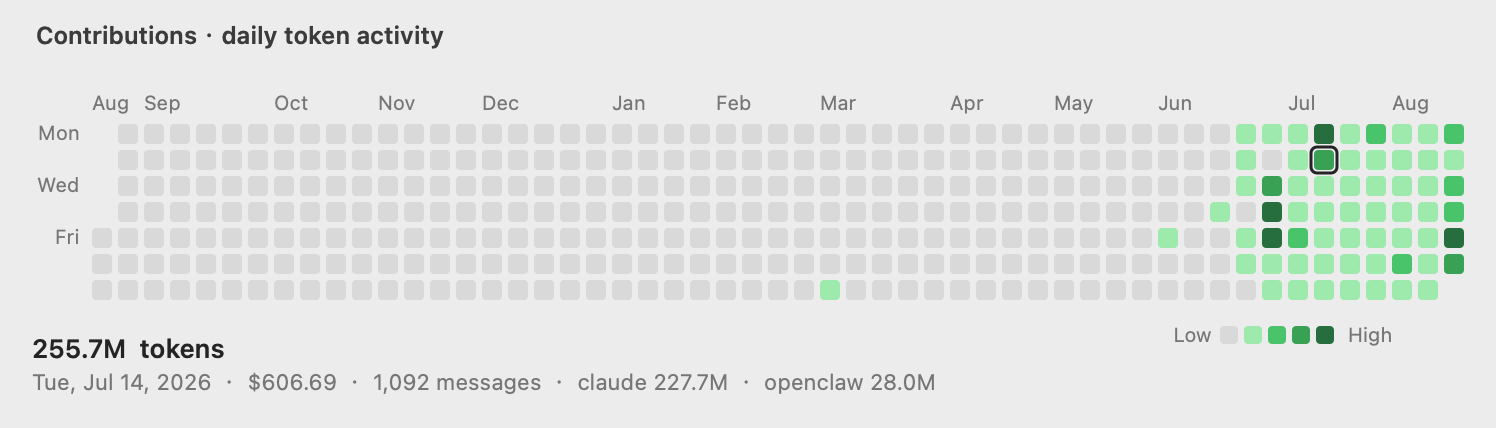
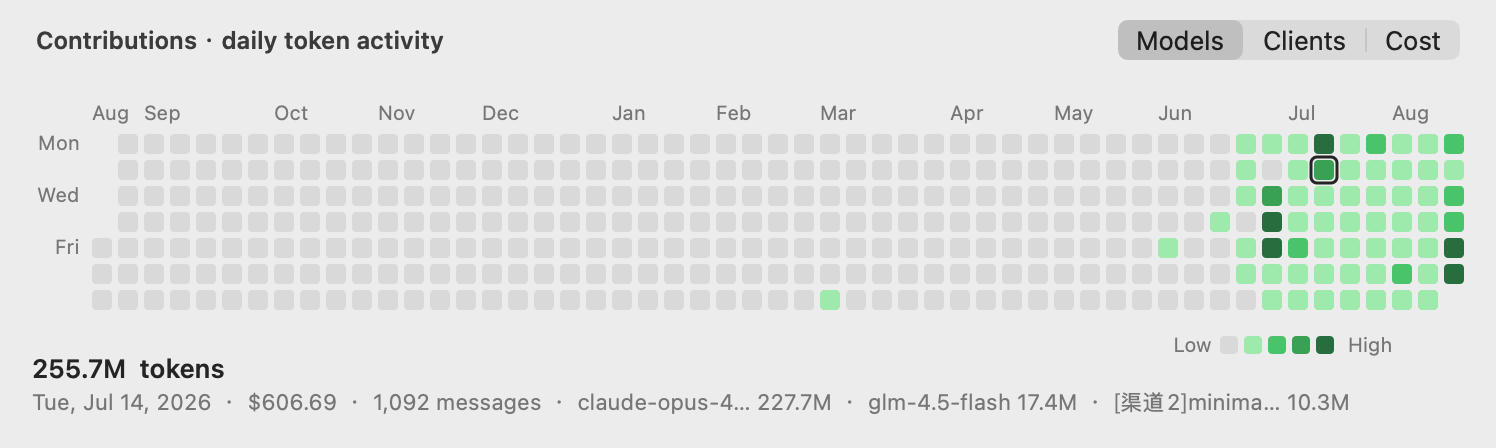
Let the contributions grid switch between models, clients and cost
A toggle in the popover's corner picks what the day readout breaks down by.
Models is the new default — the per-model split is merged from each client's
own model map, which the payload already carried. Cost switches the hero figure
to spend and recolours the grid from the quartiles of the daily cost, since the
API's intensity only tracks tokens: without that, an expensive quiet day and a
cheap busy one looked identical.

Breakdown names clip to 14 columns so three of them plus the date, cost and
message count still fit on one line.

diff --git a/Sources/Heatmap.swift b/Sources/Heatmap.swift
@@ -3,6 +3,27 @@
 
 import AppKit
 
+/// What the grid colours by and what the readout breaks down.
+enum ContribMode: Int, CaseIterable {
+    case models
+    case clients
+    case cost
+
+    var titleKey: String {
+        switch self {
+        case .models: return "heat.models"
+        case .clients: return "heat.clients"
+        case .cost: return "heat.cost"
+        }
+    }
+}
+
+struct ContribSlice {
+    let name: String
+    let tokens: Int
+    let cost: Double
+}
+
 struct ContribDay {
     let date: Date
     let tokens: Int
@@ -11,8 +32,16 @@ struct ContribDay {
     /// 0…4 as the API reports it; any day with tokens is lifted to at least 1 so
     /// "a little" never renders as "nothing".
     let level: Int
-    /// Client → tokens, biggest first.
-    let clients: [(name: String, tokens: Int)]
+    /// Per-client and per-model splits, each biggest-first.
+    let clients: [ContribSlice]
+    let models: [ContribSlice]
+
+    func slices(_ mode: ContribMode) -> [ContribSlice] {
+        switch mode {
+        case .clients: return clients
+        case .models, .cost: return models
+        }
+    }
 }
 
 /// One hue, light→dark, so the ramp reads as magnitude. Each mode has its own
@@ -63,7 +92,10 @@ func displayLocale() -> Locale {
 
 final class HeatmapView: NSView {
     /// Days keyed by their GMT midnight, plus the window to render.
-    var days: [Date: ContribDay] = [:] { didSet { needsDisplay = true } }
+    var days: [Date: ContribDay] = [:] {
+        didSet { recomputeCostCuts(); needsDisplay = true }
+    }
+    var mode: ContribMode = .models { didSet { needsDisplay = true } }
     var start = Date() { didSet { needsDisplay = true } }
     var end = Date() { didSet { needsDisplay = true } }
 
@@ -76,6 +108,9 @@ final class HeatmapView: NSView {
     private var pitch: CGFloat { cell + gap }
 
     private var hovered: Date?
+    /// Quartile cut points over the non-zero daily costs, so the cost view has a
+    /// ramp of its own instead of reusing the token intensity.
+    private var costCuts: [Double] = []
     /// Week column → x offset, filled while drawing.
     private var firstColumnMonday = Date()
     private var columns = 0
@@ -85,6 +120,24 @@ final class HeatmapView: NSView {
         let gridWidth = CGFloat(columns) * pitch - gap
         return NSSize(width: padding * 2 + labelColumn + gridWidth,
                       height: padding * 2 + monthRow + 7 * pitch - gap + 10 + readoutHeight)
+    }
+
+    private func recomputeCostCuts() {
+        let costs = days.values.map(\.cost).filter { $0 > 0 }.sorted()
+        guard costs.count >= 4 else { return costCuts = [] }
+        costCuts = [0.25, 0.5, 0.75].map { costs[Int(Double(costs.count - 1) * $0)] }
+    }
+
+    /// Level for a cell: the API's token intensity, or a cost quartile.
+    private func level(_ day: ContribDay?) -> Int {
+        guard let day else { return 0 }
+        guard mode == .cost else { return day.level }
+        guard day.cost > 0 else { return 0 }
+        guard costCuts.count == 3 else { return 2 }
+        if day.cost <= costCuts[0] { return 1 }
+        if day.cost <= costCuts[1] { return 2 }
+        if day.cost <= costCuts[2] { return 3 }
+        return 4
     }
 
     private func recomputeColumns() {
@@ -148,8 +201,7 @@ final class HeatmapView: NSView {
                 let rect = NSRect(x: origin.x + CGFloat(col) * pitch,
                                   y: origin.y - CGFloat(row) * pitch,
                                   width: cell, height: cell)
-                let entry = days[day]
-                heatColor(level: entry?.level ?? 0).setFill()
+                heatColor(level: level(days[day])).setFill()
                 NSBezierPath(roundedRect: rect, xRadius: 2, yRadius: 2).fill()
                 if day == hovered {
                     NSColor.labelColor.setStroke()
@@ -243,16 +295,25 @@ final class HeatmapView: NSView {
         f.locale = displayLocale()
         f.timeZone = gridCalendar.timeZone
         f.setLocalizedDateFormatFromTemplate("EEE, MMM d, yyyy")
-        drawText("\(fmtTokens(day.tokens))  \(t("heat.tokens"))",
+        let hero = mode == .cost ? fmtMoney(day.cost)
+                                 : "\(fmtTokens(day.tokens))  \(t("heat.tokens"))"
+        drawText(hero,
                  at: NSRect(x: padding, y: y, width: bounds.width - padding * 2, height: 16),
                  font: .systemFont(ofSize: 13, weight: .semibold),
                  colour: .labelColor, alignment: .left)
 
         // Everything else on one secondary line — the scale legend sits above the
         // right end of this row, so nothing is right-aligned here.
-        var parts = [f.string(from: day.date), fmtMoney(day.cost)]
+        var parts = [f.string(from: day.date)]
+        parts.append(mode == .cost ? fmtTokens(day.tokens) + " tokens" : fmtMoney(day.cost))
         if day.messages > 0 { parts.append(t("heat.messages", fmtExact(day.messages))) }
-        parts += day.clients.prefix(3).map { "\($0.name) \(fmtTokens($0.tokens))" }
+        let top = day.slices(mode)
+            .sorted { mode == .cost ? $0.cost > $1.cost : $0.tokens > $1.tokens }
+            .prefix(3)
+        parts += top.map { slice in
+            let value = mode == .cost ? fmtMoney(slice.cost) : fmtTokens(slice.tokens)
+            return "\(clipDisplay(slice.name, 14)) \(value)"
+        }
         drawText(parts.joined(separator: "  ·  "),
                  at: NSRect(x: padding, y: y - 16, width: bounds.width - padding * 2, height: 14),
                  font: .systemFont(ofSize: 11), colour: .secondaryLabelColor, alignment: .left)
@@ -281,6 +342,7 @@ final class ContribPopover: NSObject {
     private let popover = NSPopover()
     private let grid = HeatmapView()
     private let heading = NSTextField(labelWithString: "")
+    private var toggle: NSSegmentedControl!
     private var built = false
 
     func show(days: [ContribDay], start: Date, end: Date, from anchor: NSView?) {
@@ -298,8 +360,20 @@ final class ContribPopover: NSObject {
 
     func refreshLanguage() {
         guard built else { return }
-        heading.stringValue = t("heat.title")
+        localise()
         grid.needsDisplay = true
+    }
+
+    private func localise() {
+        heading.stringValue = t("heat.title")
+        for mode in ContribMode.allCases {
+            toggle.setLabel(t(mode.titleKey), forSegment: mode.rawValue)
+        }
+        toggle.sizeToFit()
+    }
+
+    @objc private func modeChanged(_ sender: NSSegmentedControl) {
+        grid.mode = ContribMode(rawValue: sender.selectedSegment) ?? .models
     }
 
     private func load(days: [ContribDay], start: Date, end: Date) {
@@ -307,10 +381,10 @@ final class ContribPopover: NSObject {
                                uniquingKeysWith: { a, _ in a })
         grid.start = start
         grid.end = end
-        heading.stringValue = t("heat.title")
+        localise()
         let size = grid.neededSize
         grid.frame = NSRect(origin: .zero, size: size)
-        popover.contentSize = NSSize(width: size.width, height: size.height + 30)
+        popover.contentSize = NSSize(width: size.width, height: size.height + 40)
     }
 
     private func build() {
@@ -321,13 +395,25 @@ final class ContribPopover: NSObject {
         heading.translatesAutoresizingMaskIntoConstraints = false
         grid.translatesAutoresizingMaskIntoConstraints = false
 
+        let toggle = NSSegmentedControl(
+            labels: ContribMode.allCases.map { t($0.titleKey) },
+            trackingMode: .selectOne, target: self, action: #selector(modeChanged(_:)))
+        toggle.selectedSegment = ContribMode.models.rawValue
+        toggle.segmentStyle = .capsule
+        toggle.controlSize = .small
+        toggle.translatesAutoresizingMaskIntoConstraints = false
+        self.toggle = toggle
+
         let content = NSView()
         content.addSubview(heading)
+        content.addSubview(toggle)
         content.addSubview(grid)
         NSLayoutConstraint.activate([
             heading.leadingAnchor.constraint(equalTo: content.leadingAnchor, constant: 18),
-            heading.topAnchor.constraint(equalTo: content.topAnchor, constant: 10),
-            grid.topAnchor.constraint(equalTo: heading.bottomAnchor, constant: 2),
+            heading.centerYAnchor.constraint(equalTo: toggle.centerYAnchor),
+            toggle.trailingAnchor.constraint(equalTo: content.trailingAnchor, constant: -18),
+            toggle.topAnchor.constraint(equalTo: content.topAnchor, constant: 10),
+            grid.topAnchor.constraint(equalTo: toggle.bottomAnchor, constant: 2),
             grid.leadingAnchor.constraint(equalTo: content.leadingAnchor),
             grid.trailingAnchor.constraint(equalTo: content.trailingAnchor),
             grid.bottomAnchor.constraint(equalTo: content.bottomAnchor),
@@ -342,9 +428,12 @@ final class ContribPopover: NSObject {
 
     /// Offscreen render for `--contrib-png`, same trick as the chart popover.
     func snapshot(days: [ContribDay], start: Date, end: Date,
-                  dark: Bool = false, hover: Date? = nil) -> Data? {
+                  dark: Bool = false, hover: Date? = nil,
+                  mode: ContribMode = .models) -> Data? {
         build()
         load(days: days, start: start, end: end)
+        grid.mode = mode
+        toggle.selectedSegment = mode.rawValue
         guard let view = popover.contentViewController?.view else { return nil }
         let size = popover.contentSize
         let host = NSWindow(contentRect: NSRect(origin: .zero, size: size),

diff --git a/Sources/main.swift b/Sources/main.swift
@@ -363,19 +363,36 @@ final class API {
                     // with usage must never render as an empty cell.
                     let level = max(int(entry, "intensity"), tokens > 0 ? 1 : 0)
                     var clientMessages = 0
+                    var modelTotals: [String: (tokens: Int, cost: Double)] = [:]
                     let clients = (entry["clients"] as? [[String: Any]] ?? []).compactMap {
-                        c -> (name: String, tokens: Int)? in
+                        c -> ContribSlice? in
                         guard let name = c["client"] as? String else { return nil }
                         clientMessages += int(c, "messages")
+                        // Each client carries its own per-model map; the day's model
+                        // split is those maps merged.
+                        for (model, raw) in (c["models"] as? [String: Any] ?? [:]) {
+                            guard let m = raw as? [String: Any] else { continue }
+                            var e = modelTotals[model] ?? (0, 0)
+                            e.tokens += int(m, "tokens")
+                            e.cost += dbl(m, "cost")
+                            modelTotals[model] = e
+                        }
                         let b = c["tokens"] as? [String: Any]
-                        return (name, int(b, "input") + int(b, "output") + int(b, "cacheRead")
-                            + int(b, "cacheWrite") + int(b, "reasoning"))
+                        return ContribSlice(
+                            name: name,
+                            tokens: int(b, "input") + int(b, "output") + int(b, "cacheRead")
+                                + int(b, "cacheWrite") + int(b, "reasoning"),
+                            cost: dbl(c, "cost"))
                     }
+                    let models = modelTotals
+                        .map { ContribSlice(name: $0.key, tokens: $0.value.tokens, cost: $0.value.cost) }
+                        .sorted { $0.tokens > $1.tokens }
                     return ContribDay(date: date, tokens: tokens,
                                       cost: dbl(totals, "cost"),
                                       messages: max(int(totals, "messages"), clientMessages),
                                       level: level,
-                                      clients: clients.sorted { $0.tokens > $1.tokens })
+                                      clients: clients.sorted { $0.tokens > $1.tokens },
+                                      models: models)
                 }
             let range = o["chartRange"] as? [String: Any]
 
@@ -1163,8 +1180,11 @@ func runContribPNG(path: String) -> Never {
     let args = CommandLine.arguments
     var hover: Date?
     if let i = args.firstIndex(of: "hover"), args.count > i + 1 { hover = parseDay(args[i + 1]) }
+    let mode: ContribMode = args.contains("cost") ? .cost
+        : args.contains("clients") ? .clients : .models
     guard let png = ContribPopover.shared.snapshot(days: s.contribs, start: from, end: to,
-                                                   dark: args.contains("dark"), hover: hover)
+                                                   dark: args.contains("dark"), hover: hover,
+                                                   mode: mode)
     else {
         print("render failed")
         exit(1)

diff --git a/Sources/Strings.swift b/Sources/Strings.swift
@@ -97,6 +97,9 @@ enum L10n {
         "heat.activeDays": ("%d active days", "%d 个活跃日"),
         "heat.tokens": ("tokens", "tokens"),
         "heat.messages": ("%@ messages", "%@ 条消息"),
+        "heat.models": ("Models", "模型"),
+        "heat.clients": ("Clients", "客户端"),
+        "heat.cost": ("Cost", "金额"),
         "heat.low": ("Low", "少"),
         "heat.high": ("High", "多"),
 

diff --git a/README.md b/README.md
@@ -59,6 +59,8 @@ The **Active days** row opens a year of daily token activity as a heat grid, the
   <img src="docs/contributions.png" width="640" alt="A year of daily token activity as a heat grid">
 </p>
 
+The toggle in the corner switches what the readout breaks the day down by — **Models**, **Clients** or **Cost**. Cost also recolours the grid: token intensity comes from the API, while the cost view derives its own levels from the quartiles of the daily spend, so a cheap-but-busy day and an expensive-but-quiet one look different.
+
 The ramp is one hue, light to dark, with separate steps for light and dark mode; days with any usage never fall back to the empty-cell colour.
 
 ## The two ranks
@@ -149,7 +151,8 @@ Switching the rank or the language from the menu stores the choice in `UserDefau
     [today|lifetime] [tokens|cost] [dark] [hover N] [reveal F]
 
 # Render the contributions grid offscreen.
-./TokensBar.app/Contents/MacOS/TokensBar --contrib-png out.png [dark] [hover YYYY-MM-DD]
+./TokensBar.app/Contents/MacOS/TokensBar --contrib-png out.png \
+    [models|clients|cost] [dark] [hover YYYY-MM-DD]
 
 # Compare this build against the latest GitHub release.
 ./TokensBar.app/Contents/MacOS/TokensBar --check-updates
